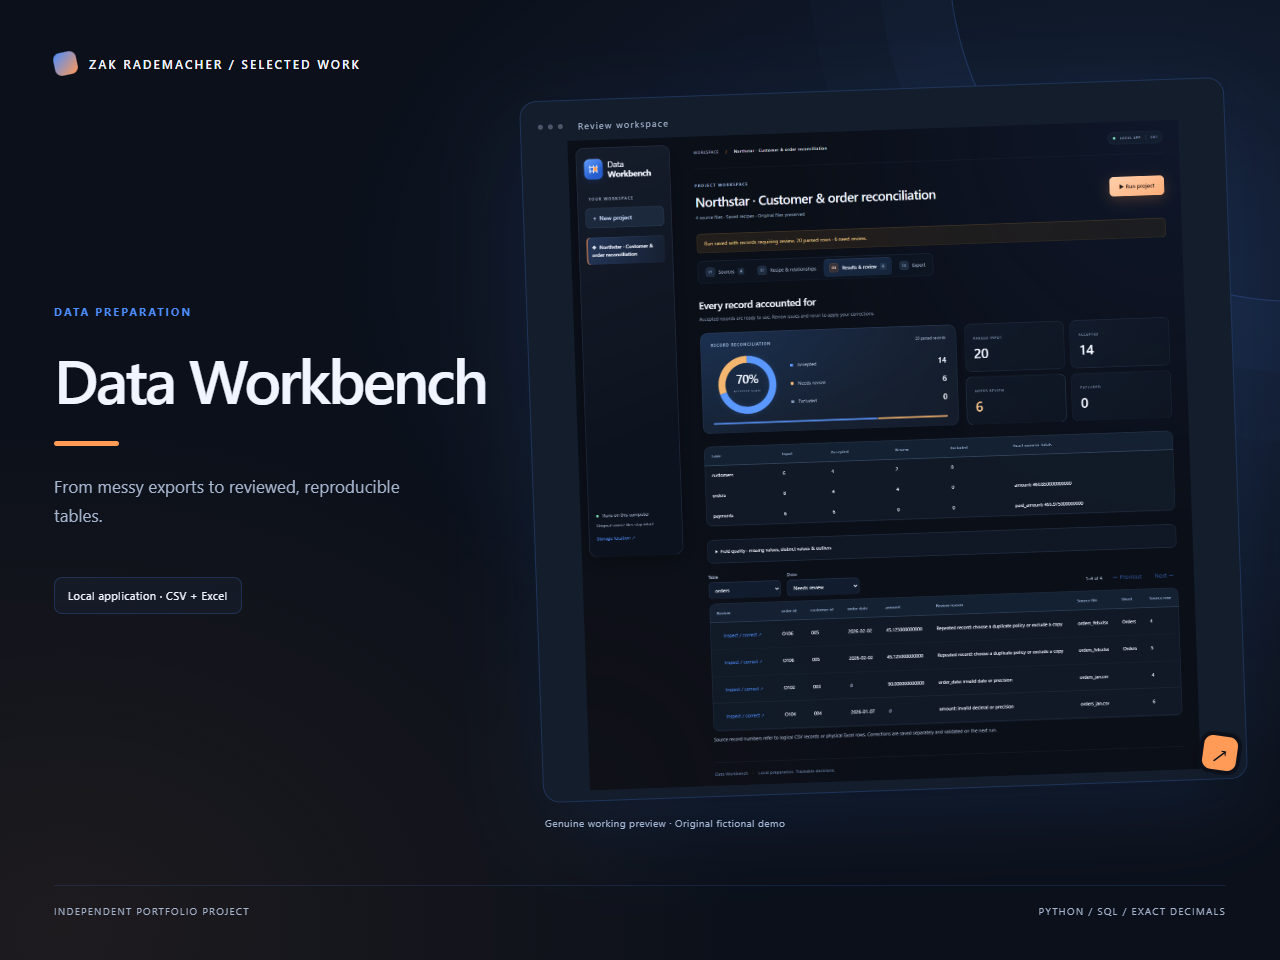
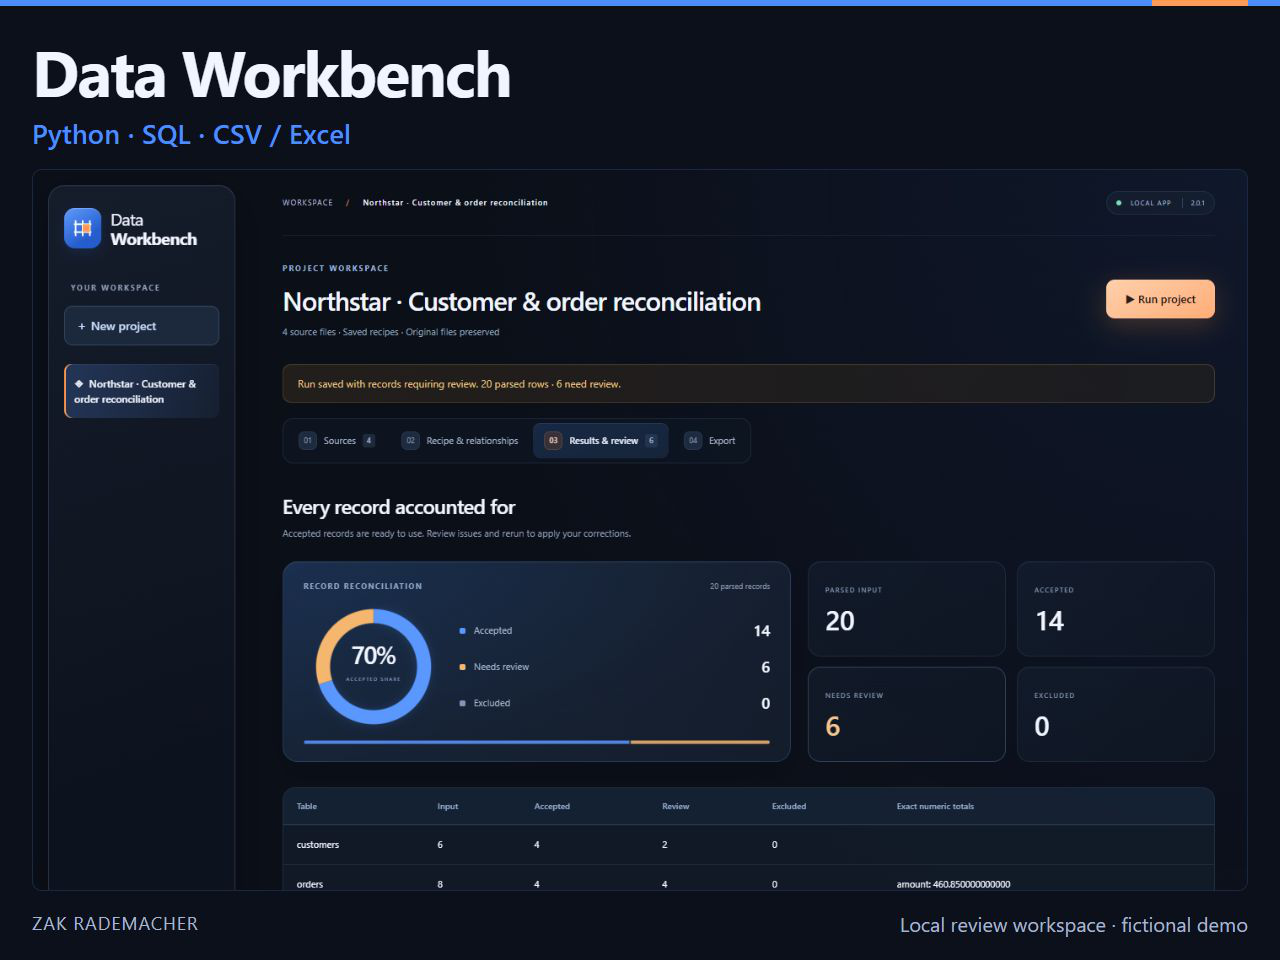
Use a clear, screenshot-led portfolio cover

diff --git a/presentation/cover-template.html b/presentation/cover-template.html
@@ -1,3 +1,3 @@
-<!doctype html><html lang="en"><meta charset="utf-8"><title>@@title@@ — portfolio cover</title><style>
-*{box-sizing:border-box}html,body{margin:0;width:100%;height:100%;overflow:hidden}body{font-family:'Segoe UI',Arial,sans-serif;background:@@canvas@@;color:@@ink@@}.stage{height:100%;padding:52px 54px;position:relative;isolation:isolate;background:radial-gradient(ellipse at 88% 28%,@@primary@@25,transparent 51%),radial-gradient(ellipse at 5% 97%,@@accent@@14,transparent 40%)}.stage:before{content:'';position:absolute;width:700px;height:700px;right:-370px;top:-400px;border:1px solid @@primary@@40;border-radius:50%;box-shadow:0 0 0 70px @@primary@@07,0 0 0 140px @@primary@@04;z-index:-1}.brand{font-size:12px;letter-spacing:2.1px;font-weight:600;display:flex;align-items:center;gap:12px}.brand i{display:block;width:23px;height:23px;background:linear-gradient(140deg,@@primary@@,@@accent@@);border-radius:7px;transform:rotate(-12deg)}main{height:calc(100% - 88px);display:grid;grid-template-columns:39% 61%;align-items:center;gap:20px}.copy{padding-right:25px;animation:copy-in .9s cubic-bezier(.16,.8,.2,1) both}.eyebrow{font-size:11px;color:@@primary@@;font-weight:700;letter-spacing:2px;margin-bottom:28px}h1{font-size:62px;line-height:1.04;font-weight:550;letter-spacing:-2.8px;margin:0 0 26px;max-width:450px}h1:after{content:'';display:block;height:5px;width:65px;border-radius:4px;background:@@accent@@;margin-top:30px}.description{font-size:17px;line-height:1.7;max-width:360px;color:@@muted@@}.format{display:inline-block;margin-top:30px;padding:10px 13px;border:1px solid @@primary@@35;background:@@primary@@0C;border-radius:8px;font-size:11px;letter-spacing:.4px}.frame-wrap{position:relative;perspective:1500px;padding:0 10px 0 0;animation:frame-in 1.1s .1s cubic-bezier(.16,.8,.2,1) both}.frame{padding:10px;border:1px solid @@primary@@35;border-radius:17px;background:@@surface@@;box-shadow:0 30px 85px @@primary@@19,0 4px 14px #00000012;transform:rotate(-2deg)}.chrome{height:30px;display:flex;align-items:center;gap:5px;padding-left:7px}.chrome i{height:5px;width:5px;background:@@muted@@60;border-radius:50%}.chrome span{font-size:9px;letter-spacing:1.2px;margin-left:10px;color:@@muted@@}img{width:100%;max-height:650px;display:block;object-fit:contain;object-position:top;border-radius:8px}.caption{font-size:10px;color:@@muted@@;letter-spacing:.4px;margin:25px 0 0 14px}.tag{position:absolute;right:5px;bottom:56px;width:42px;height:42px;background:@@accent@@;color:@@canvas@@;border:4px solid @@canvas@@;border-radius:13px;display:grid;place-items:center;font-size:23px;box-shadow:0 8px 24px #0002;transform:rotate(8deg)}footer{position:absolute;bottom:42px;left:54px;right:54px;display:flex;justify-content:space-between;border-top:1px solid @@primary@@25;padding-top:18px;font-size:10px;letter-spacing:1.2px;color:@@muted@@}@keyframes copy-in{from{opacity:0;transform:translateY(22px)}to{opacity:1;transform:none}}@keyframes frame-in{from{opacity:0;transform:translate(35px,38px) rotate(5deg) scale(.94)}to{opacity:1;transform:none}}@media(max-height:760px){.stage{padding-top:35px}main{grid-template-columns:39% 61%}h1{font-size:52px}.eyebrow{margin-bottom:22px}.description{font-size:15px}.format{margin-top:15px}img{max-height:455px}footer{bottom:25px}.frame-wrap{padding-left:10px}.caption{margin-top:18px}}@media(prefers-reduced-motion:reduce){*{animation:none!important;transition:none!important}}
-</style><div class="stage"><div class="brand"><i></i>ZAK RADEMACHER / SELECTED WORK</div><main><section class="copy"><div class="eyebrow">@@eyebrow@@</div><h1>@@title@@</h1><p class="description">@@description@@</p><span class="format">@@format@@</span></section><section class="frame-wrap"><div class="frame"><div class="chrome"><i></i><i></i><i></i><span>@@frame_label@@</span></div><img src="@@image_data@@" alt="Genuine rendered project preview"></div><div class="tag" aria-hidden="true">↗</div><p class="caption">Genuine working preview · @@preview_note@@</p></section></main><footer><span>INDEPENDENT PORTFOLIO PROJECT</span><span>@@footer@@</span></footer></div></html>
+<!doctype html><html lang="en"><meta charset="utf-8"><meta name="author" content="Zak Rademacher"><title>@@title@@ — portfolio cover</title><style>
+*{box-sizing:border-box}html,body{margin:0;width:100%;height:100%;overflow:hidden}body{font-family:'Segoe UI',Arial,sans-serif;background:@@canvas@@;color:@@ink@@}.stage{height:100%;padding:30px 32px 22px;display:flex;flex-direction:column;gap:18px;border-top:6px solid @@primary@@;position:relative}.stage:before{content:'';position:absolute;top:-6px;right:32px;width:96px;height:6px;background:@@accent@@}header{flex:none;min-height:115px;display:flex;flex-direction:column;justify-content:center;gap:10px}h1{font-size:64px;line-height:1.08;letter-spacing:-1.8px;font-weight:650;margin:0;white-space:nowrap}.tools{font-size:27px;line-height:1.3;letter-spacing:.2px;color:@@primary@@;font-weight:550;margin:0}.preview{flex:1;min-height:0;display:flex;align-items:center;justify-content:center;overflow:hidden;border:1px solid @@primary@@33;border-radius:10px;background:@@canvas@@}.preview img{display:block;width:100%;height:100%;object-fit:contain;object-position:center}.preview.crop-top img{object-fit:cover;object-position:center top}footer{flex:none;display:flex;align-items:center;justify-content:space-between;gap:20px;height:29px;font-size:20px;line-height:1.3;color:@@muted@@}.name{font-size:18px;letter-spacing:1px;white-space:nowrap}.note{text-align:right}@media(max-height:760px){.stage{padding-top:20px;padding-bottom:15px;gap:12px}header{min-height:92px;gap:6px}h1{font-size:54px}.tools{font-size:24px}footer{font-size:18px;height:24px}.name{font-size:16px}}
+</style><div class="stage"><header><h1>@@title@@</h1><p class="tools">@@format@@</p></header><main class="preview @@preview_mode@@"><img src="@@image_data@@" alt="@@frame_label@@"></main><footer><span class="name">ZAK RADEMACHER</span><span class="note">@@preview_note@@</span></footer></div></html>

diff --git a/docs/VISUAL_DESIGN.md b/docs/VISUAL_DESIGN.md
@@ -15,3 +15,9 @@ Palette values live in `web/design-tokens.json`. Run `python -B tools/build_them
 Practice: change the `accent` color, rebuild the tokens and reload the local demo. Confirm that the selected step and project marker change, while review counts, numeric values and warning messages retain their meaning. Restore the chosen accent afterward.
 
 The browser workflow check covers upload, corrections, relationship approval and downloads. `tools/capture_visual_pilot.py` captures actual fictional demo screens and checks narrow-screen page overflow; use scratch projects outside this repository. Historical benchmark evidence continues to identify the release originally tested.
+
+## Portfolio thumbnails
+
+The shared cover uses a large title, a short tool line and a straight-on project screenshot. `presentation/cover.json` selects the existing source image and its scope label; `presentation/cover-template.html` controls the layout. `portfolio-cover.png` is the 1280 × 960 cover used on the GitHub profile and Upwork. `portfolio-cover-wide.png` is the 1280 × 720 variant. The repository README keeps its larger original report or app preview.
+
+Run the existing `python presentation/build_cover.py --workdir <scratch folder>` to regenerate static covers after a source or title change. The template has no decorative entrance animation. Workbench uses a top crop for the thumbnail; its full workspace screenshot remains available. Keep the source qualifications when changing a cover.
